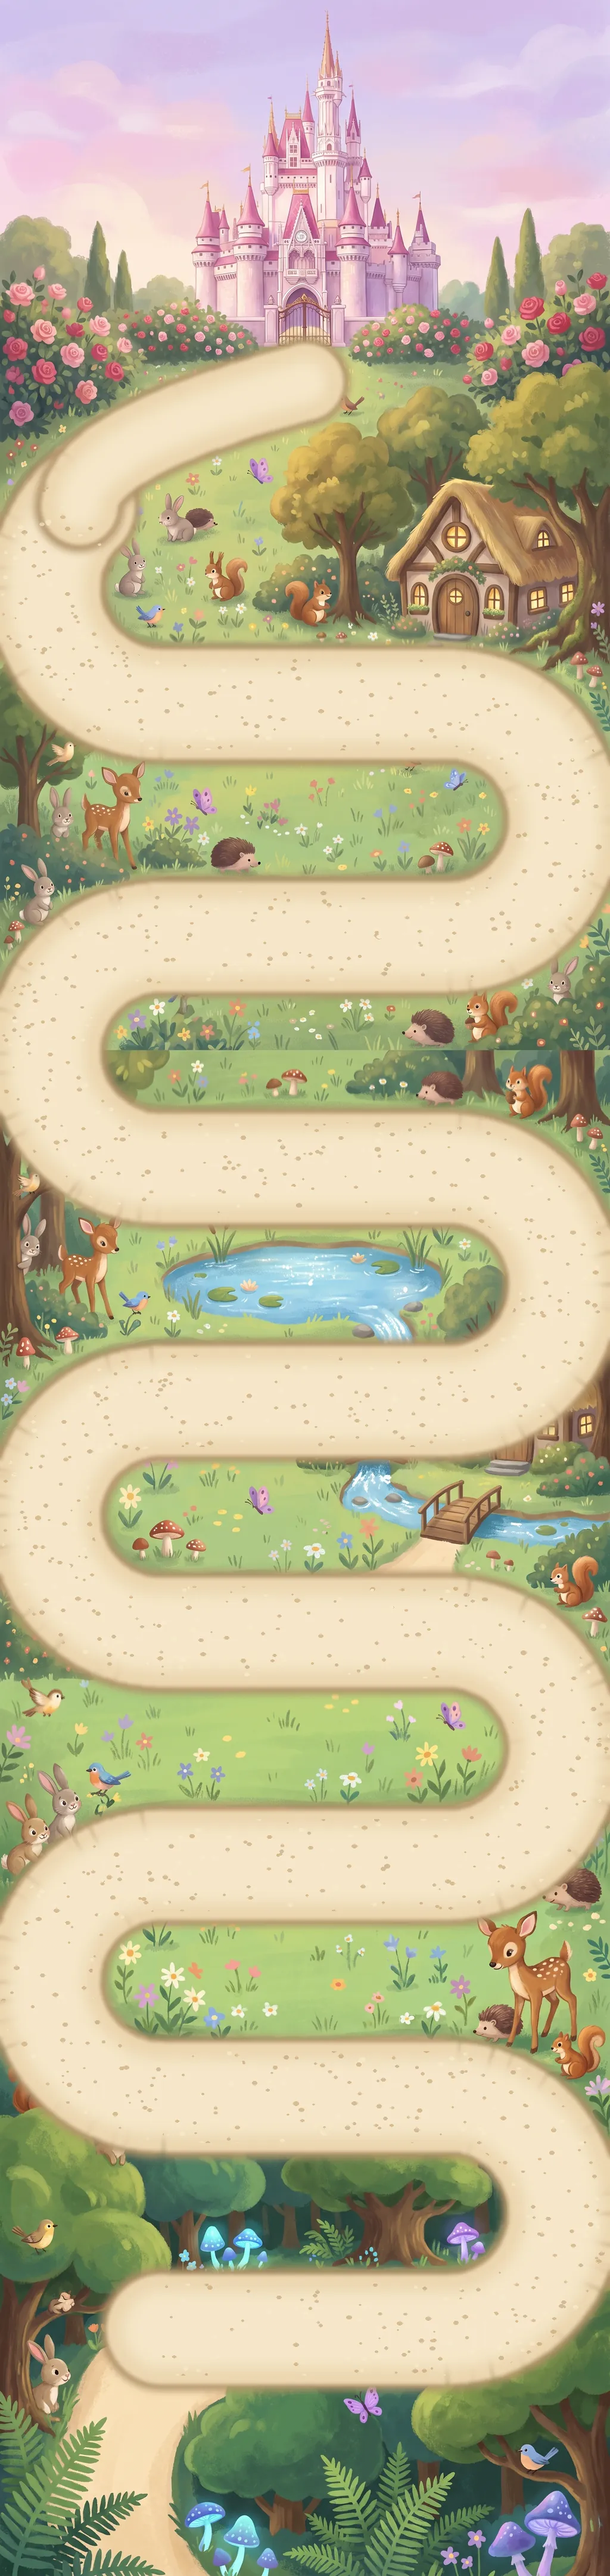
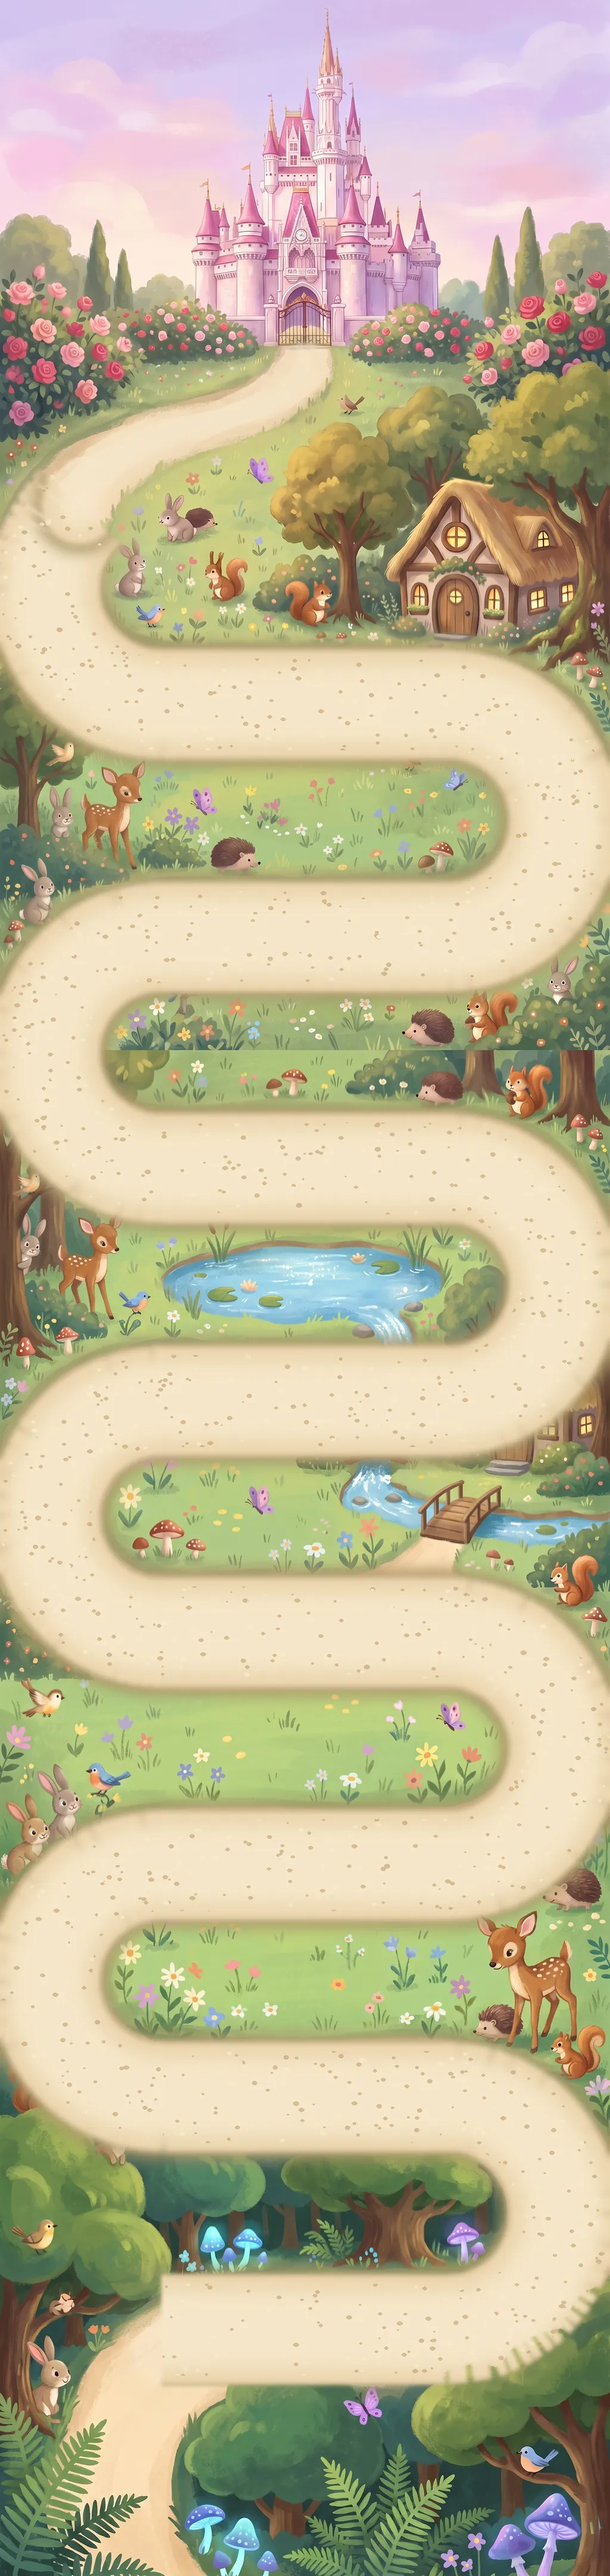
地图：修掉拼接缝，道路起点和终点自然融入画面
- 拼接处、起点（森林）、终点（城堡大门）请 AI 局部重画，放格子的那段路受保护不变
- 路到城堡大门的小路由画面自然连接，不再盖住城堡
- 路边改成柔和渐变；中图补上空草地的花草小动物

diff --git a/tools/gen_art.py b/tools/gen_art.py
@@ -23,7 +23,7 @@ API key 从环境变量或项目根目录的 .env 文件读取，脚本不会打
   API 返回的原图缓存在 art-src/raw/，再次运行不会重复花钱；加 --force 才会重新画。
 """
 import base64, io, json, math, os, sys, time, uuid, urllib.request, urllib.error
-from PIL import Image, ImageDraw, ImageFilter
+from PIL import Image, ImageChops, ImageDraw, ImageFilter
 
 ROOT = os.path.dirname(os.path.dirname(os.path.abspath(__file__)))
 RAW = os.path.join(ROOT, 'art-src', 'raw')
@@ -337,9 +337,9 @@ def paint_road(canvas, g):
             layer = layer.filter(ImageFilter.GaussianBlur(blur))
         canvas.alpha_composite(Image.merge('RGBA', (*Image.new('RGB', (W, Hpx), color).split(), layer)))
     for pts, w in ((g['road'], 72), (g['conn'], 50)):
-        stroke(pts, w + 8, (176, 146, 104), 6)     # 柔和的深色路边
-        stroke(pts, w, (236, 214, 176), 3)          # 沙土路面
-        stroke(pts, w - 22, (245, 230, 200), 10)    # 中间亮一点
+        stroke(pts, w + 10, (170, 150, 104), 12)   # 很淡、很软的路边，像融进草地
+        stroke(pts, w, (236, 214, 176), 5)          # 沙土路面
+        stroke(pts, w - 22, (245, 230, 200), 12)    # 中间亮一点
     # 路面上的小石子和纹理（只在路上）
     mask = Image.new('L', (W, Hpx), 0); md = ImageDraw.Draw(mask)
     md.line([P(p) for p in g['road']], fill=255, width=round(60 * S), joint='curve')
@@ -350,6 +350,70 @@ def paint_road(canvas, g):
         td.ellipse([x - r, y - r * .7, x + r, y + r * .7], fill=c)
     tex.putalpha(Image.composite(tex.getchannel('A'), Image.new('L', (W, Hpx), 0), mask))
     canvas.alpha_composite(tex)
+    return canvas
+
+
+EXTRA_SEAMS = {'mid': [1720]}   # 段内 AI 自己画出的横线（像素行），和自动算出的拼接处一起修
+EXTRA_FILL = {'mid': [1430]}    # 画得太空的草地（像素行），请 AI 补上花草小动物
+TOUCH_PROMPT = {
+    'seam': ('This is one section of a storybook map. Across the middle of the image there is a visible horizontal seam where two '
+             'paintings were joined. Repaint the scenery so it flows continuously across that line with no visible seam, '
+             'keeping everything else the same. '),
+    'fill': ('The plain flat green lawn in the middle of this image is too empty. Paint it as a lush storybook meadow with '
+             'wildflowers, small bushes, mushrooms and one or two cute woodland animals, matching the rest of the picture. '),
+    'top': ('Make the winding sandy path continue naturally from where it ends up to the castle front gate, as a slightly '
+            'narrower garden path that clearly reaches the gate. The castle must stay fully visible and unchanged, with nothing '
+            'covering it. Blend the edges of the sandy path softly into the grass and flowers, as part of the painting. '),
+    'bottom': ('Make the start of the sandy path look natural: the path should emerge from among the forest trees at the bottom, '
+               'its beginning fading softly into the forest floor instead of ending abruptly. Blend the edges of the sandy path '
+               'softly into the grass, as part of the painting. '),
+}
+TOUCH_TAIL = ('Keep the sandy path in exactly the same position, shape and width, and keep it empty. Same style: ' + STYLE)
+
+
+def touch_up(canvas, name, g, f, prov, force):
+    """拼好的地图再请 AI 局部重画几处：拼接缝、起点、终点。贴回时把放格子的那段路保护起来，格子位置不会变。"""
+    Hpx = canvas.height
+    tops = []; t = Hpx - WIN_H
+    while t > 0:
+        tops.append(t); t -= STEP
+    tops.append(0)
+    rows = sorted([b + STEP for b in tops[1:]] + EXTRA_SEAMS.get(name, []))  # 每段新画的部分和旧段的接缝
+    seams = []
+    for r in rows:  # 太近的缝合并成一处
+        if seams and r - seams[-1] < 300:
+            continue
+        seams.append(r)
+    start_y = round(g['road'][0][1] * S); end_y = round(g['road'][-1][1] * S)
+    jobs = [('seam', r, max(0, min(Hpx - WIN_H, r - WIN_H // 2)), r - 220, r + 220) for r in seams]
+    jobs += [('fill', r, max(0, min(Hpx - WIN_H, r - WIN_H // 2)), r - 160, r + 160) for r in EXTRA_FILL.get(name, [])]
+    jobs.append(('bottom', start_y, Hpx - WIN_H, start_y - round(60 * S), Hpx))
+    jobs.append(('top', end_y, 0, 0, end_y + round(50 * S)))
+    # 受保护的路：从第一个格子到最后一个格子，平头，不含两头的圆帽
+    guard = Image.new('L', (W, Hpx), 0)
+    ImageDraw.Draw(guard).line([P(p) for p in g['road']], fill=255, width=round(74 * S))
+    guard = guard.filter(ImageFilter.GaussianBlur(3))
+    for kind, row, top, y0, y1 in jobs:
+        key = f'touch-{name}-{kind}-{row}'
+        cache = os.path.join(RAW, key + '.png')
+        win = canvas.crop((0, top, W, top + WIN_H))
+        if os.path.exists(cache) and not force:
+            new = Image.open(cache).convert('RGBA')
+        else:
+            print(f'  修 {name} {kind}（第 {row} 行）…')
+            prompt = TOUCH_PROMPT[kind] + TOUCH_TAIL
+            if prov == 'kie':
+                new = kie_image(prompt, '2:3', images=[win], label=key)
+            elif prov == 'openai':
+                new = openai_image(prompt, f'{W}x{WIN_H}', images=[win], label=key)
+            else:
+                new = gemini_image(prompt, '2:3', images=[win], label=key)
+            new = new.convert('RGBA').resize((W, WIN_H), Image.LANCZOS); new.save(cache)
+        m = Image.new('L', (W, WIN_H), 0)
+        ImageDraw.Draw(m).rectangle([0, max(0, y0 - top), W, min(WIN_H, y1 - top)], fill=255)
+        m = m.filter(ImageFilter.GaussianBlur(40))
+        m = ImageChops.subtract(m, guard.crop((0, top, W, top + WIN_H)))
+        canvas.paste(Image.composite(new, win, m), (0, top))
     return canvas
 
 
@@ -402,6 +466,7 @@ def gen_map(name, force):
         canvas.crop((0, Hpx - round(130 * S), round(170 * S), Hpx)).convert('RGB').save(
             os.path.join(OUT_PROPS, 'forest.webp'), 'WEBP', quality=86)
     canvas = paint_road(canvas, g)
+    canvas = touch_up(canvas, name, g, f, prov, force)
     os.makedirs(OUT_MAPS, exist_ok=True)
     canvas.convert('RGB').save(out, 'WEBP', quality=80, method=6)
     print(f'完成 {out}（{W}x{Hpx}）')
